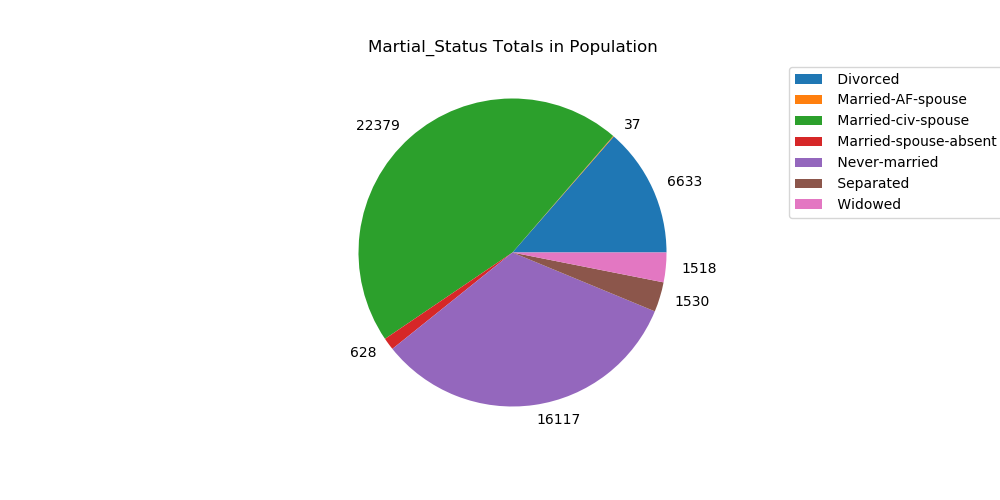
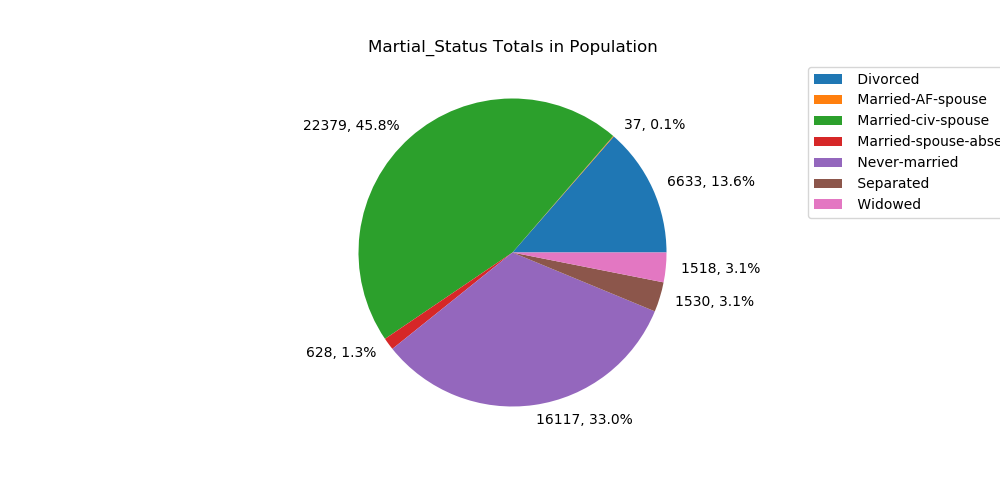
Adding percentages to pie charts

diff --git a/visualizations.py b/visualizations.py
@@ -4,17 +4,8 @@ import matplotlib.pyplot as plt
 
 def main():
     df = load_data()
+
     
-    generateVsEarningsStackedBarChart(df, 'Age')
-    generateVsEarningsStackedBarChart(df, 'Education')
-    generateVsEarningsStackedBarChart(df, 'Marital Status')
-    generateVsEarningsStackedBarChart(df, 'Occupation', figSizeWidth = 25, figSizeLength = 10, xticksRotation = 25)
-    generateVsEarningsStackedBarChart(df, 'Relationship')
-    generateVsEarningsStackedBarChart(df, 'Race')
-    generateVsEarningsStackedBarChart(df, 'Gender')
-    generateVsEarningsStackedBarChart(df, 'From_USA')
-    generateVsEarningsStackedBarChart(df, 'Hours Worked Per Week')
-    plt.close('all') # to prevent memory warnings
     
     generateOverUnderPieCharts(df, 'Education')
     generateOverUnderPieCharts(df, 'Marital Status')
@@ -89,28 +80,28 @@ def generateOverUnderPieCharts(df, columnName, figSizeWidth = 10, figSizeLength 
     above50k = df.loc[df['Below_50k'] == False].groupby(columnName).count().rename(columns={'Below_50k': 'CountOfAbove50k'})
     below50k = df.loc[df['Below_50k'] == True].groupby(columnName).count().rename(columns={'Below_50k': 'CountOfBelow50k'})
 
-    values = list(above50k['CountOfAbove50k'])
+    values = ["{}, {}%".format(a, b) for a, b in zip(above50k['CountOfAbove50k'], round(above50k['CountOfAbove50k']/sum(above50k['CountOfAbove50k']) * 100, 1))]
     above50k.plot.pie(y='CountOfAbove50k', labels=values, figsize=(figSizeWidth, figSizeLength))
     plt.ylabel('')
     plt.title(columnName + ', Over 50K')
-    plt.legend(labels=above50k.axes[0].values).set_bbox_to_anchor((1.2, .9, 0.1, 0.1))
+    plt.legend(labels=above50k.axes[0].values).set_bbox_to_anchor((1.25, .9, 0.1, 0.1))
     plt.savefig(f'vis/{columnName}_over50.png')
     
-    values = list(below50k['CountOfBelow50k'])
+    values = ["{}, {}%".format(a, b) for a, b in zip(below50k['CountOfBelow50k'], round(below50k['CountOfBelow50k']/sum(below50k['CountOfBelow50k']) * 100, 1))]
     below50k.plot.pie(y='CountOfBelow50k', labels=values, figsize=(figSizeWidth, figSizeLength))
     plt.ylabel('')
     plt.title(columnName + ', Under 50K')
-    plt.legend(labels=below50k.axes[0].values).set_bbox_to_anchor((1.2, .9, 0.1, 0.1))
+    plt.legend(labels=below50k.axes[0].values).set_bbox_to_anchor((1.25, .9, 0.1, 0.1))
     plt.savefig(f'vis/{columnName}_under50.png')
 
 def generateGeneralPopulationPieCharts(df, columnName, figSizeWidth = 10, figSizeLength = 5, barWidth = 0.5,  xticksRotation = None):
     df = df[[columnName, 'Below_50k']]
     df = df.groupby(columnName).count().rename(columns={'Below_50k': 'Count'})
-    values = list(df['Count'])
+    values = ["{}, {}%".format(a, b) for a, b in zip(df['Count'], round(df['Count']/sum(df['Count']) * 100, 1))]
     df.plot.pie(y='Count', labels=values, figsize=(figSizeWidth, figSizeLength))
     plt.ylabel('')
     plt.title(columnName + ' Totals in Population')
-    plt.legend(labels=df.axes[0].values).set_bbox_to_anchor((1.2, .9, 0.1, 0.1))
+    plt.legend(labels=df.axes[0].values).set_bbox_to_anchor((1.25, .9, 0.1, 0.1))
     plt.savefig(f'vis/{columnName}_total.png')
     
     
